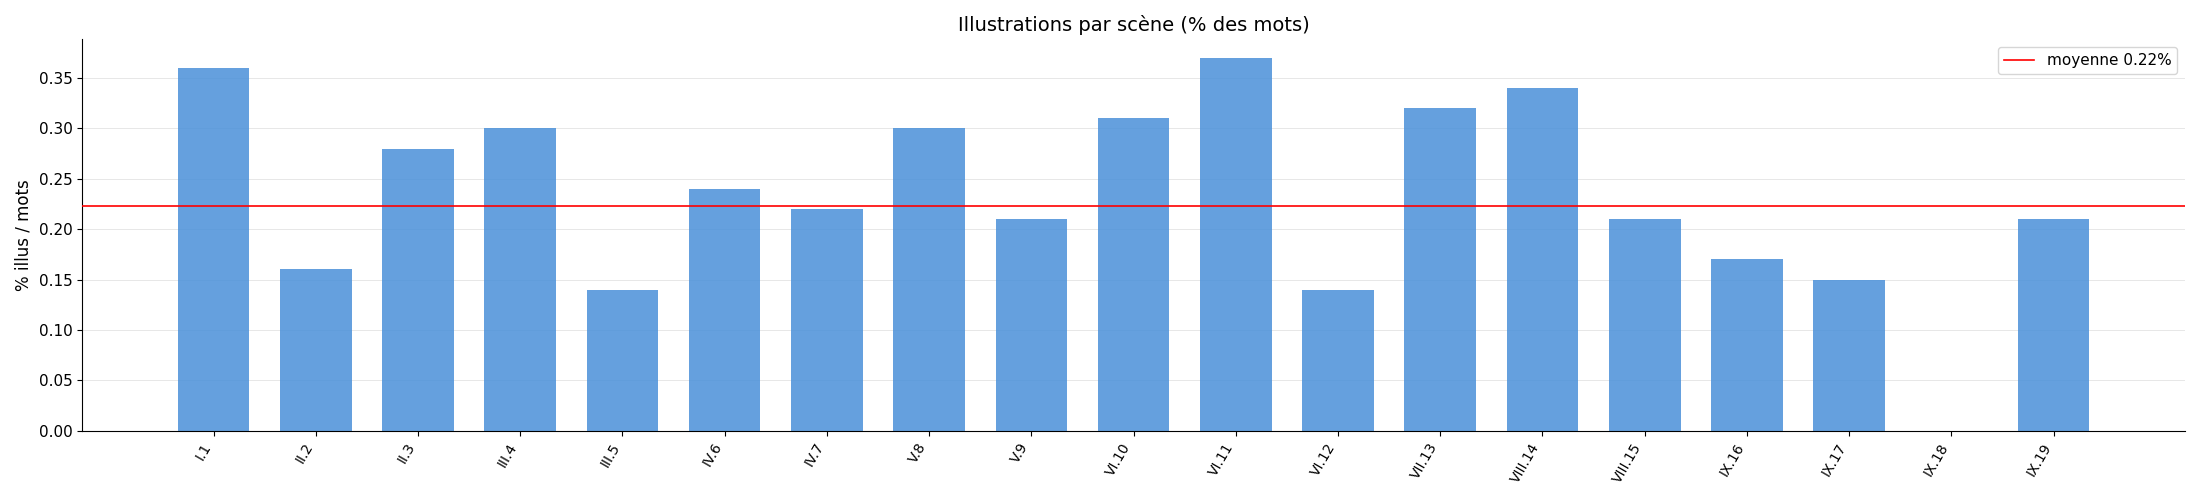
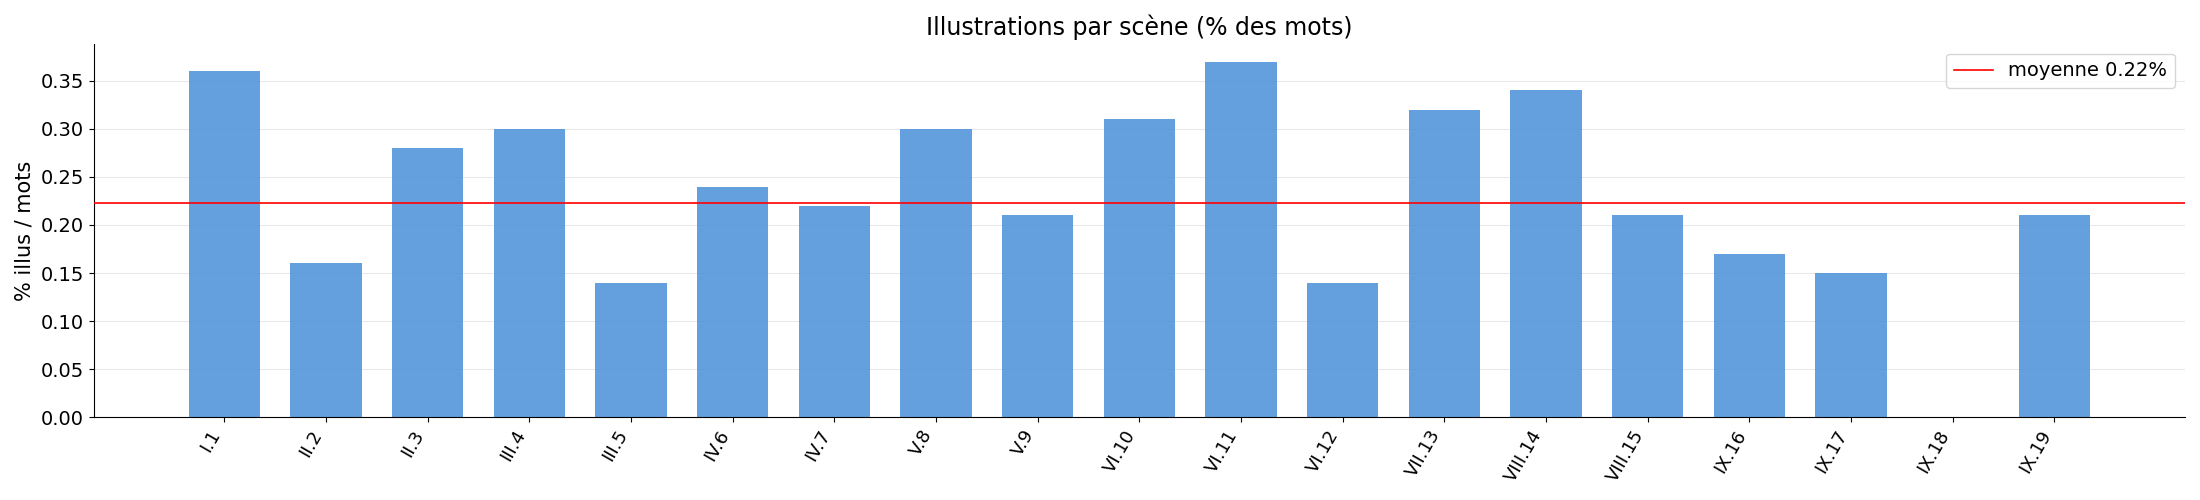
larger fonts

diff --git a/stats.py b/stats.py
@@ -365,11 +365,11 @@ def _png_illus_chart(rows_split: list) -> str:
     ax.axhline(mean_val, color="red", linewidth=1.2, zorder=3,
                label=f"moyenne {mean_val:.2f}%")
     ax.set_xticks(range(len(values)))
-    ax.set_xticklabels(scene_labels, rotation=60, ha="right", fontsize=10)
-    ax.set_ylabel("% illus / mots", fontsize=12)
-    ax.set_title("Illustrations par scène (% des mots)", fontsize=14)
-    ax.tick_params(axis="y", labelsize=11)
-    ax.legend(fontsize=11)
+    ax.set_xticklabels(scene_labels, rotation=60, ha="right", fontsize=13)
+    ax.set_ylabel("% illus / mots", fontsize=15)
+    ax.set_title("Illustrations par scène (% des mots)", fontsize=17)
+    ax.tick_params(axis="y", labelsize=14)
+    ax.legend(fontsize=14)
     ax.grid(axis="y", linewidth=0.5, color="#ddd", zorder=0)
     ax.spines["top"].set_visible(False)
     ax.spines["right"].set_visible(False)

diff --git a/stats.md b/stats.md
@@ -26,7 +26,7 @@ Mots = texte original uniquement (hors contenu des notes `\nf{}`).
 | IX.19 | Il est toujours extrêmement douloureux de mettre… | 721 | 204 |   6 138 |   3.29% |  25.25% |    23 |  0.37% |            13 |  0.21% |  56.52% |
 | **Total** | |  |  | **186 743** | **100%** | **29.41%** | **1078** | **0.58%** | **417** | **0.22%** | **38.68%** |
 
-![Illustrations par scène](stats_illus_chart.png?v=b1971070)
+![Illustrations par scène](stats_illus_chart.png?v=f25bdffe)
 
 # Statistiques par acte (avant découpage)
 
